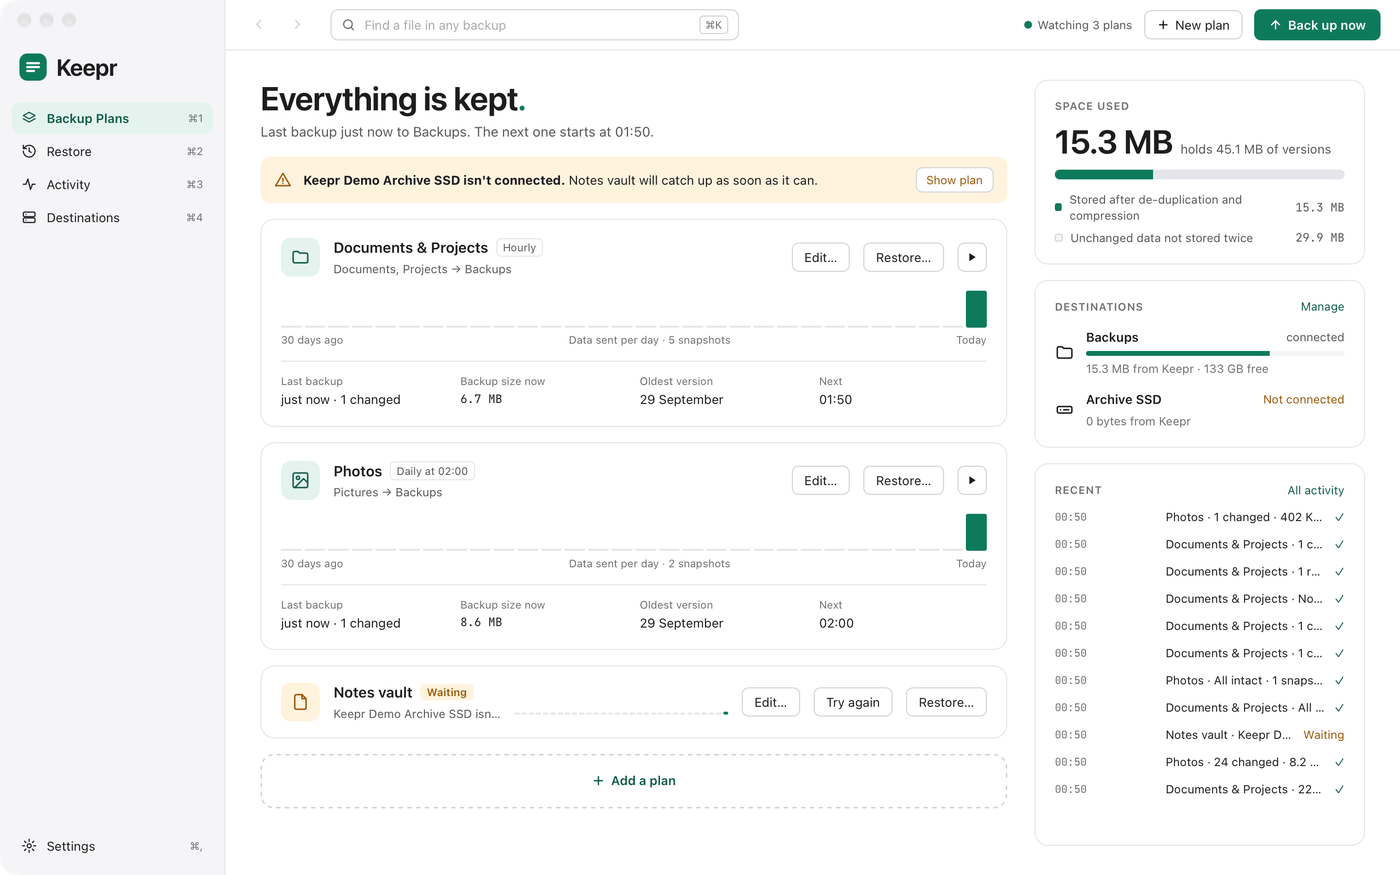
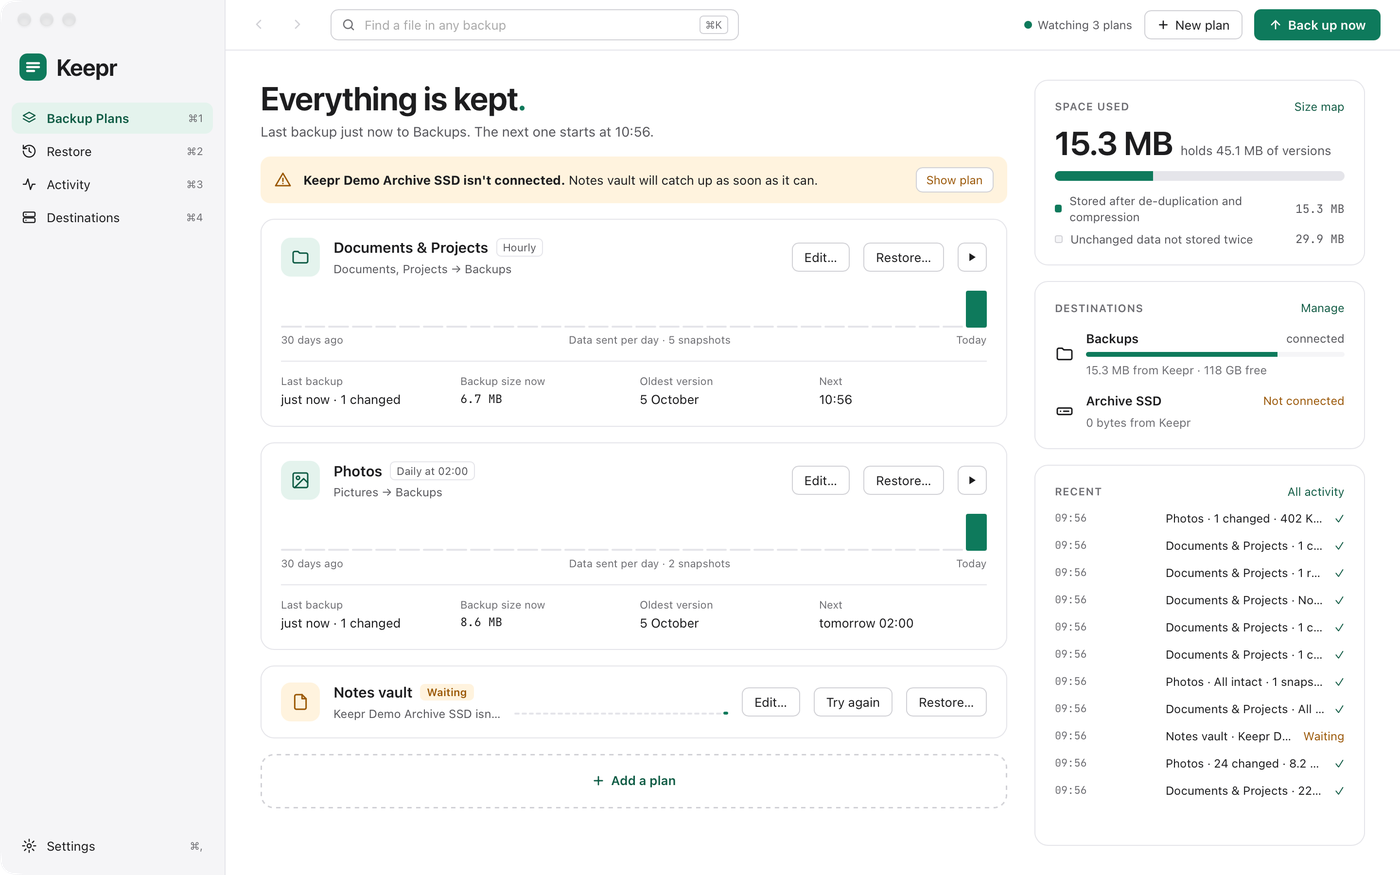
Size map of every plan, from the Space used card
Backup Plans' Space used card gets a Size map link to a new screen showing
each plan's latest snapshot as one treemap. SizeMap now takes a loader, so
Restore and the new screen share it. Docs, Help and screenshots updated.

diff --git a/src/SizeMap.tsx b/src/SizeMap.tsx
@@ -2,13 +2,13 @@
 // See LICENSE for the full text.
 // SPDX-License-Identifier: GPL-3.0-or-later
 
-// Restore's size map: a snapshot's folders drawn as nested blocks, each as big as what it
-// holds, so what takes the space is plain at a glance. The layout is the squarified treemap
-// from Disk Usage Visualiser. Click a folder to zoom into it; ⌘-click, or a click on a block
-// of files, shows it in the Files list.
+// The size map: folders drawn as nested blocks, each as big as what it holds, so what takes
+// the space is plain at a glance. The layout is the squarified treemap from Disk Usage
+// Visualiser. Click a folder to zoom into it; ⌘-click, or a click on a block of files, shows
+// it. Restore draws one snapshot with it; the Size map screen draws every plan's latest.
 
 import { useEffect, useRef, useState } from "react";
-import { api, type MapDir } from "./api";
+import type { MapDir } from "./api";
 import { bytes, tilde } from "./format";
 import { Icon } from "./icons";
 
@@ -92,16 +92,24 @@ function childrenOf(d: MapDir): Item[] {
 const count = (n: number, one: string) => `${n.toLocaleString()} ${one}${n === 1 ? "" : "s"}`;
 
 export default function SizeMap({
-  plan,
-  snapshot,
+  load,
   home,
   onShow,
+  top = "Everything",
+  where,
+  showHint = "show in Files",
 }: {
-  plan: string;
-  snapshot: string;
+  /// The map of a folder by its path, "" for the top. A new function redraws from it.
+  load: (path: string) => Promise<MapDir>;
   home: string;
   /// Show a folder (or the folder a block of files is in) in the Files list.
   onShow: (path: string) => void;
+  /// The first crumb's name.
+  top?: string;
+  /// A path as the tooltip shows it.
+  where?: (path: string) => string;
+  /// What ⌘-click does, for the tooltip.
+  showHint?: string;
 }) {
   // The folder the map is zoomed into, and the way down to it for the path bar.
   const [at, setAt] = useState<{ path: string; name: string }[]>([{ path: "", name: "" }]);
@@ -117,7 +125,7 @@ export default function SizeMap({
     let live = true;
     setTree(null);
     setErr("");
-    api.sizeMap(plan, snapshot, here).then(
+    load(here).then(
       (t) => live && setTree(t),
       (e) => {
         if (!live) return;
@@ -128,7 +136,7 @@ export default function SizeMap({
     return () => {
       live = false;
     };
-  }, [plan, snapshot, here]);
+  }, [load, here]);
 
   const label = (name: string) => (name.startsWith("/") ? tilde(name, home) : name);
   const title = (b: Block) =>
@@ -248,24 +256,24 @@ export default function SizeMap({
     const { b, el } = hit;
     const d = b.dir;
     const esc = (s: string) => s.replace(/&/g, "&amp;").replace(/</g, "&lt;");
-    const where = esc(label(d.path) || "the backup");
+    const place = esc((where ? where(d.path) : label(d.path)) || "the backup");
     const share = (n: number) => (d.size ? `${Math.round((100 * n) / d.size)}%` : "—");
     let html: string;
     if (b.kind === "files") {
       html =
-        `<b>${title(b)} directly in ${esc(label(d.name) || "the backup")}</b><div class="p">${where}</div>` +
+        `<b>${title(b)} directly in ${esc(label(d.name) || "the backup")}</b><div class="p">${place}</div>` +
         `<div class="r"><span>Size</span><b>${bytes(d.looseSize)}</b><span>Share</span><b>${share(d.looseSize)}</b></div>` +
-        `<div class="hint">Click to show them in Files</div>`;
+        `<div class="hint">Click to ${showHint.replace("show", "show them")}</div>`;
     } else if (b.kind === "more") {
       html =
-        `<b>${title(b)} in ${esc(label(d.name) || "the backup")}</b><div class="p">${where}</div>` +
+        `<b>${title(b)} in ${esc(label(d.name) || "the backup")}</b><div class="p">${place}</div>` +
         `<div class="r"><span>Size</span><b>${bytes(d.moreSize)}</b><span>Share</span><b>${share(d.moreSize)}</b></div>` +
-        `<div class="hint">Each is too small to draw here. Click to see them in Files.</div>`;
+        `<div class="hint">Each is too small to draw here. Click to ${showHint.replace("show", "see them")}.</div>`;
     } else {
       html =
-        `<b>${esc(label(d.name))}</b><div class="p">${where}</div>` +
+        `<b>${esc(label(d.name))}</b><div class="p">${place}</div>` +
         `<div class="r"><span>Size</span><b>${bytes(d.size)}</b><span>Files</span><b>${d.files.toLocaleString()}</b></div>` +
-        `<div class="hint">${el.classList.contains("zoom") ? "Click to zoom in · " : ""}⌘-click to show in Files</div>`;
+        `<div class="hint">${el.classList.contains("zoom") ? "Click to zoom in · " : ""}⌘-click to ${showHint}</div>`;
     }
     tip.innerHTML = html;
     tip.hidden = false;
@@ -289,7 +297,7 @@ export default function SizeMap({
             <span key={c.path} className="row" style={{ gap: 4, minWidth: 0 }}>
               {i > 0 && <span className="faint">›</span>}
               <button className={i === at.length - 1 ? "on" : ""} onClick={() => setAt(at.slice(0, i + 1))}>
-                {i === 0 ? "Everything" : label(c.name)}
+                {i === 0 ? top : label(c.name)}
               </button>
             </span>
           ))}

diff --git a/src/PlansMap.tsx b/src/PlansMap.tsx
@@ -1,0 +1,131 @@
+// Copyright © 2026 Wayne Davies. Free software under the GNU General Public License, version 3 or later.
+// See LICENSE for the full text.
+// SPDX-License-Identifier: GPL-3.0-or-later
+
+// The Size map screen, from Backup Plans' Space used card: every plan's latest snapshot in one
+// size map, a block per plan. Click a plan to zoom into its folders; ⌘-click opens it in Restore.
+
+import { useCallback, useEffect, useState } from "react";
+import { api, type MapDir } from "./api";
+import { useApp } from "./context";
+import { Icon } from "./icons";
+import SizeMap from "./SizeMap";
+import { tilde } from "./format";
+
+// A path on this map is the plan's id, this, then the path in its snapshot.
+const SEP = "\t";
+
+/// A plan's map with its paths made the map's, and its levels moved down by `shift`.
+function under(d: MapDir, plan: string, shift: number): MapDir {
+  return { ...d, path: `${plan}${SEP}${d.path}`, depth: d.depth + shift, kids: d.kids.map((k) => under(k, plan, shift)) };
+}
+
+export default function PlansMap() {
+  const { ov, home, go } = useApp();
+  // Each plan with a backup, and its latest snapshot.
+  const [latest, setLatest] = useState<{ id: string; name: string; snapshot: string }[] | null>(null);
+  const [err, setErr] = useState("");
+  const kept = (ov?.plans ?? []).filter((p) => p.snapshots > 0);
+  const key = kept.map((p) => `${p.id}:${p.snapshots}:${p.lastSuccess}`).join(",");
+
+  useEffect(() => {
+    let live = true;
+    Promise.all(
+      kept.map((p) => api.snapshots(p.id).then((s) => (s.length ? { id: p.id, name: p.name, snapshot: s[s.length - 1].id } : null))),
+    ).then(
+      (l) => live && setLatest(l.filter((x) => x !== null)),
+      (e) => live && setErr(String(e)),
+    );
+    return () => {
+      live = false;
+    };
+    // eslint-disable-next-line react-hooks/exhaustive-deps
+  }, [key]);
+
+  const split = (path: string) => {
+    const i = path.indexOf(SEP);
+    const plan = latest?.find((p) => p.id === path.slice(0, i));
+    return { plan, inner: path.slice(i + 1) };
+  };
+
+  const load = useCallback(
+    async (path: string): Promise<MapDir> => {
+      const plans = latest ?? [];
+      if (!path) {
+        // One plan: straight to its folders.
+        if (plans.length === 1) {
+          const p = plans[0];
+          return under(await api.sizeMap(p.id, p.snapshot, ""), p.id, 0);
+        }
+        const kids = (
+          await Promise.all(plans.map(async (p) => ({ ...under(await api.sizeMap(p.id, p.snapshot, ""), p.id, 1), name: p.name })))
+        ).sort((a, b) => b.size - a.size);
+        return {
+          name: "",
+          path: "",
+          size: kids.reduce((n, k) => n + k.size, 0),
+          files: kids.reduce((n, k) => n + k.files, 0),
+          depth: 0,
+          looseFiles: 0,
+          looseSize: 0,
+          more: 0,
+          moreSize: 0,
+          read: true,
+          kids,
+        };
+      }
+      const i = path.indexOf(SEP);
+      const p = plans.find((x) => x.id === path.slice(0, i));
+      if (!p) throw new Error("That plan has no backup any more.");
+      const inner = path.slice(i + 1);
+      const d = under(await api.sizeMap(p.id, p.snapshot, inner), p.id, 0);
+      return inner ? d : { ...d, name: p.name };
+    },
+    [latest],
+  );
+
+  const where = (path: string) => {
+    if (!path) return "";
+    const { plan, inner } = split(path);
+    return [plan?.name, inner && tilde(inner, home)].filter(Boolean).join(" › ");
+  };
+  const show = (path: string) => {
+    const { plan, inner } = split(path);
+    if (!plan) return;
+    if (!inner) go({ name: "restore", plan: plan.id, view: "map" });
+    else go({ name: "restore", plan: plan.id, focus: { snapshot: plan.snapshot, path: inner } });
+  };
+
+  return (
+    <div className="content col" style={{ gap: 16, padding: "20px 32px 18px", overflow: "hidden" }}>
+      <div className="col" style={{ gap: 4 }}>
+        <h1>Size map</h1>
+        <span className="small muted">
+          Each plan's latest backup, its folders drawn as big as the files they hold. Sizes are of the files themselves, before
+          de-duplication and compression, so they won't match the space used. Click to zoom in, ⌘-click to open in Restore.
+        </span>
+      </div>
+      {err ? (
+        <div className="banner bad">
+          <Icon name="warning" size={18} />
+          <span className="text">{err}</span>
+        </div>
+      ) : latest && latest.length === 0 ? (
+        <div className="empty">Once a plan has backed up, its map is here.</div>
+      ) : (
+        <section className="card" style={{ flexGrow: 1, minHeight: 0, display: "flex", overflow: "hidden" }}>
+          {latest && (
+            <SizeMap
+              load={load}
+              home={home}
+              onShow={show}
+              top={latest.length === 1 ? latest[0].name : "All plans"}
+              where={where}
+              showHint="open in Restore"
+            />
+          )}
+        </section>
+      )}
+    </div>
+  );
+}

diff --git a/src/App.tsx b/src/App.tsx
@@ -16,6 +16,7 @@ import Activity from "./Activity";
 import Destinations from "./Destinations";
 import Settings from "./Settings";
 import Search from "./Search";
+import PlansMap from "./PlansMap";
 import { hideSplash } from "./splash";
 
 // Backup Plans is the overview of every plan; a plan's settings open from its card.
@@ -38,7 +39,7 @@ function Sidebar() {
         {NAV.map(([name, label, icon, key]) => (
           <button
             key={name}
-            className={screen.name === name || (name === "overview" && screen.name === "plans") ? "on" : ""}
+            className={screen.name === name || (name === "overview" && (screen.name === "plans" || screen.name === "sizemap")) ? "on" : ""}
             onClick={() => go({ name } as Screen)}
             title={`${label} ${key}`}
           >
@@ -262,6 +263,8 @@ export default function App() {
             <Toolbar back={back} forward={forward} canBack={past.length > 0} canForward={future.length > 0} />
             {!ov || !cfg ? null : screen.name === "overview" ? (
               <Overview />
+            ) : screen.name === "sizemap" ? (
+              <PlansMap />
             ) : screen.name === "plans" ? (
               <Plans key={`${screen.plan ?? ""}-${screen.isNew ?? ""}`} />
             ) : screen.name === "restore" ? (

diff --git a/src/Overview.tsx b/src/Overview.tsx
@@ -424,7 +424,17 @@ export default function Overview() {
 
       <aside className="col" style={{ width: 340, flexShrink: 0, gap: 16 }}>
         <div className="card pad col" style={{ gap: 12 }}>
-          <span className="caps">Space used</span>
+          <div className="row" style={{ justifyContent: "space-between" }}>
+            <span className="caps">Space used</span>
+            <a
+              href="#"
+              onClick={(e) => (e.preventDefault(), go({ name: "sizemap" }))}
+              className="small"
+              title="See which folders take the space"
+            >
+              Size map
+            </a>
+          </div>
           <div className="row" style={{ alignItems: "baseline", gap: 8 }}>
             <span className="big-number">{bytes(ov.storedBytes)}</span>
             <span className="muted">holds {bytes(ov.versionsBytes)} of versions</span>

diff --git a/src/Restore.tsx b/src/Restore.tsx
@@ -261,6 +261,8 @@ export default function Restore() {
   }, [planJob]);
 
   const snap = snaps?.[sel];
+  const snapId = snap?.id ?? "";
+  const mapLoad = useCallback((path: string) => api.sizeMap(planId ?? "", snapId, path), [planId, snapId]);
   const load = useCallback(
     async (path: string) => {
       if (!planId || !snap) return;
@@ -605,7 +607,7 @@ export default function Restore() {
 
         {snap && view === "map" && (
           <section className="card" style={{ flexGrow: 1, minHeight: 0, display: "flex", overflow: "hidden" }}>
-            <SizeMap plan={plan.id} snapshot={snap.id} home={home} onShow={showInFiles} />
+            <SizeMap load={mapLoad} home={home} onShow={showInFiles} />
           </section>
         )}
 

diff --git a/src/context.ts b/src/context.ts
@@ -10,6 +10,7 @@ import type { Config, JobStatus, Overview as OverviewData } from "./api";
 
 export type Screen =
   | { name: "overview" }
+  | { name: "sizemap" }
   | { name: "plans"; plan?: string; isNew?: boolean }
   | { name: "restore"; plan?: string; query?: string; focus?: { snapshot: string; path: string }; view?: "files" | "map" }
   | { name: "search"; query: string }

diff --git a/docs/features.md b/docs/features.md
@@ -47,6 +47,10 @@ A plan that has failed, is waiting (for its drive, say) or hasn't backed up for 
 
 On the right are **Space used**, across every plan, each destination with its free space, and **Recent**, the last few backups; **All activity** opens [Activity](day-to-day.md#activity).
 
+**Size map**, in the **Space used** card, shows every plan's latest backup as one map, a block per plan, each as big as the files it holds. Inside each plan its folders are blocks too, nested and coloured by how deep they are, so what takes the space shows at a glance. Click a plan or a folder to zoom into it, and the path bar above the map to come back out; ⌘-click one to open it in [Restore](restore.md). With only one plan the map starts at its folders. The sizes are of the files themselves, before de-duplication and compression, so the map's total won't match the space used. It's the same map as Restore's [size map](restore.md#seeing-what-takes-the-space), across all your plans.
+
+<a href="images/index.md#features"><picture><source media="(prefers-color-scheme: dark)" srcset="images/plans-map-dark.png"><img alt="The size map of every plan: Documents & Projects, Photos and Notes as blocks, with their folders inside" src="images/plans-map-light.png"></picture></a>
+
 ## Requirements
 
 A Mac with Apple silicon (M1 or later) and macOS 13 or later.

diff --git a/docs/restore.md b/docs/restore.md
@@ -52,6 +52,8 @@ A restore runs like a backup, one job at a time, and shows in [Activity](day-to-
 
 **Size map**, beside **Files** above the list, shows the snapshot as a map instead of a list. It draws each folder as a block as big as what it holds, nested inside the folder it's in and coloured by how deep it is, so what takes the space shows at a glance. The files directly in a folder are one dashed block, and folders too small to draw are another. Click a folder to zoom into it, and the path bar above the map to come back out. ⌘-click a folder, or click a dashed block, to find it in **Files**, open and picked, ready to see its versions or restore it.
 
+To see every plan in one map, use **Size map** in the **Space used** card on [Backup Plans](features.md#backup-plans).
+
 <a href="images/index.md#restore"><picture><source media="(prefers-color-scheme: dark)" srcset="images/sizemap-dark.png"><img alt="The size map of a snapshot: Documents and Projects as blocks, with Finance and Letters inside Documents" src="images/sizemap-light.png"></picture></a>
 
 ## Finding a file in any backup

diff --git a/docs/images/index.md b/docs/images/index.md
@@ -13,6 +13,7 @@ On [the README](../../README.md).
 On [Features](../features.md).
 
 - Backup Plans: [light](overview-light.png) · [dark](overview-dark.png)
+- The size map of every plan: [light](plans-map-light.png) · [dark](plans-map-dark.png)
 - The splash screen: [light](splash-light.png) · [dark](splash-dark.png)
 
 ## Backup plans
